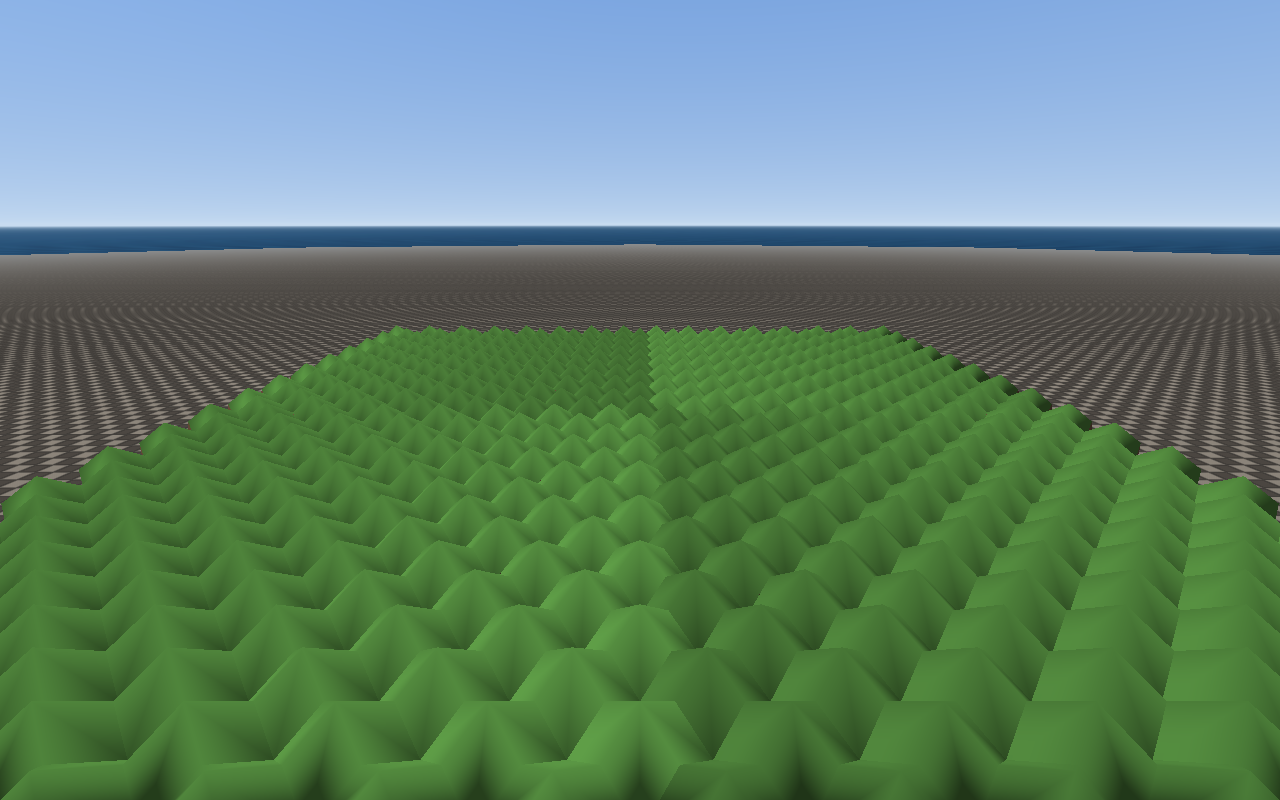
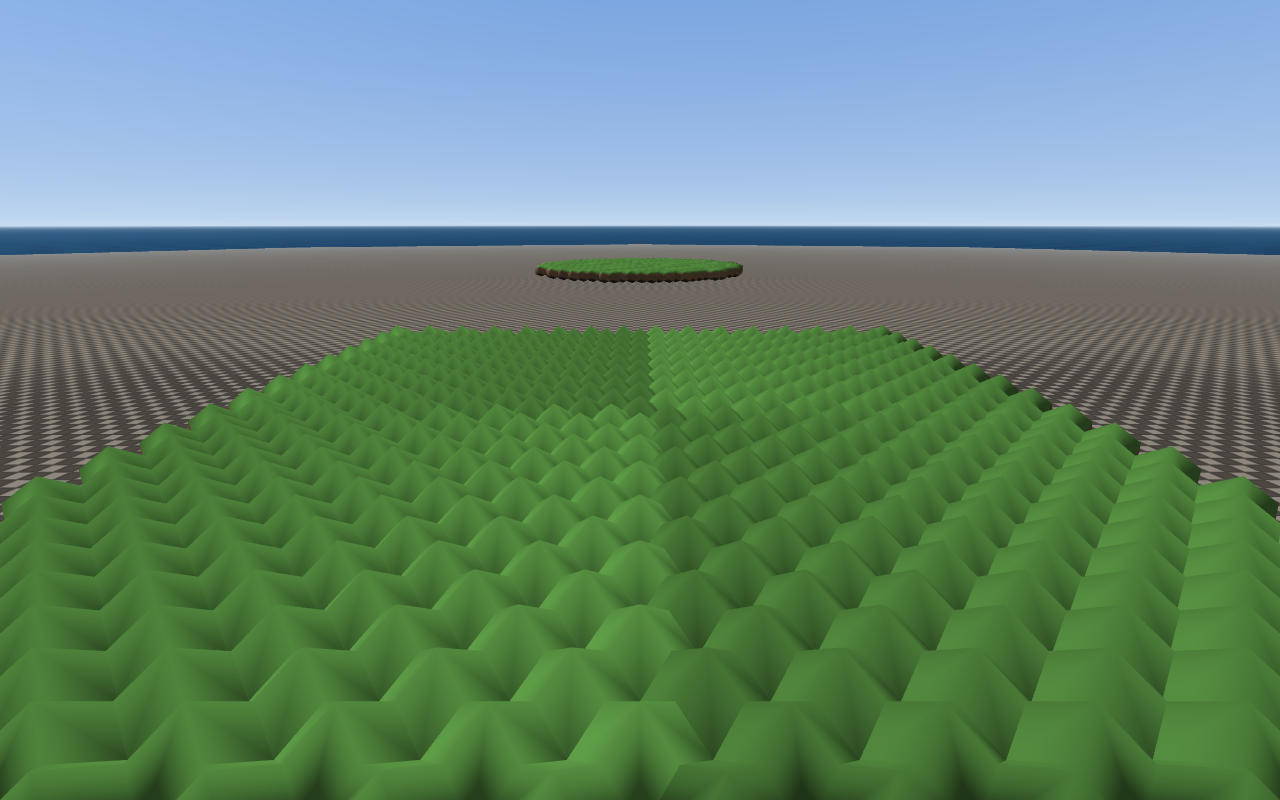
run.py launcher for direct file runs; README and screenshots updated

Changed region(s): [[0.0, 0.3125, 1.0, 0.4688]]

diff --git a/run.py b/run.py
@@ -1,0 +1,15 @@
+"""Run the game by executing this file directly (e.g. PyCharm's Run).
+
+The game code lives in the `rhombic_game` package and uses relative
+imports, so the package's own modules cannot be run as scripts --
+``python -m rhombic_game`` is the canonical entry point.  This
+launcher sits at the project root, which puts the root on sys.path,
+so ``import rhombic_game`` resolves and the package loads properly.
+Equivalent PyCharm setup without this file: a run configuration with
+"Module name" = ``rhombic_game`` instead of a script path.
+"""
+
+from rhombic_game.app import main
+
+if __name__ == "__main__":
+    raise SystemExit(main())

diff --git a/README.md b/README.md
@@ -43,7 +43,7 @@ Python ≥ 3.10. Controls:
 | I J K L | move (right hand — for left-mousers), same plane |
 | Space / E / U | up |
 | C / Q / O | down |
-| drag, primary mouse button | look, grab-the-world style (scene follows cursor) |
+| drag, primary mouse button | look, grab-the-world style, exact 1:1 tracking at infinity |
 | wheel | fly speed |
 | G | toggle flat / Gouraud shading on the ground patch |
 | Esc | quit |
@@ -51,7 +51,19 @@ Python ≥ 3.10. Controls:
 Movement uses the view azimuth only — looking down and pressing W
 does not descend. Dragging uses the grab-the-world convention of
 panorama viewers and map apps, the opposite sense from FPS
-mouse-look: drag right pulls the world right, so the view turns left.
+mouse-look: drag right pulls the world right, so the view turns
+left. It is also *exact*: each drag step rotates the camera by the
+rotation that carries the direction under the cursor onto the
+direction previously under it, so an object at infinity stays glued
+to the pointer at any screen position (no fixed radians-per-pixel
+rate — the same drag travels further at wide FOV edges than at the
+centre, as it should).
+
+Running from an IDE: the canonical entry is `python -m rhombic_game`
+from the project root. To run a file directly (e.g. PyCharm's Run
+button), run `run.py` at the project root, or make a run
+configuration whose "Module name" is `rhombic_game` — the package's
+own modules use relative imports and cannot be run as scripts.
 
 ## The infinity math
 
@@ -95,8 +107,12 @@ out, and there is no giant finite quad to clip or z-fight.
   footprint (from the pattern coordinates' screen-space derivatives),
   so at grazing angles the across-view cells survive as stripes
   instead of averaging to grey — a procedural answer to anisotropic
-  filtering. Both planes haze out to the *same* colour the skybox
-  uses at the horizon, so plane and sky meet without a seam band.
+  filtering. The grid lines are gated by footprint too: a line
+  pattern sampled below its own period aliases into moiré bands no
+  matter how it is faded by distance, so lines now vanish once their
+  cells go sub-pixel. Both planes haze out to the *same* colour the
+  skybox uses at the horizon, so plane and sky meet without a seam
+  band.
 - The **sea plane** (y = −10, about 10 m below the terrain layer)
   has the hole: its strip walks once
   around the player — 12 finite rim vertices on a 500 m-radius
@@ -129,6 +145,12 @@ but with the real nouns in place:
   The G key cross-fades between them at runtime — flat shows the true
   rhombic facets; Gouraud softens the field of peaks considerably.
   No instancing, no culling: optimisation is a later slice, on purpose.
+- `GroundPatch111` — a second patch of the same lattice with the
+  other cleavage: centres on the (111) lattice plane (`i+j+k = 0`),
+  the whole lattice rotated so (1, 1, 1) points up. A 3-valent vertex
+  tops each cell at 0.866 m instead of 1.0 m, in a threefold pattern.
+  It sits 75 m ahead of the first patch so the two surfaces can be
+  compared in one flight.
 
 Orientation choice, made once here: a 4-valent (axis) vertex points
 straight up, so the layer's top is peaks at y = +1 m over the centres
